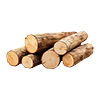
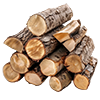
[Custom logic] qb-core - custom notify

diff --git a/[core]/qb-core/html/css/style.css b/[core]/qb-core/html/css/style.css
@@ -4,7 +4,7 @@ html::-webkit-scrollbar {
 
 @media (width: 3840px) and (height: 2160px) {
     .success {
-        background-color: rgba(23, 23, 23, 90%);
+        /*background-color: rgba(23, 23, 23, 40%);*/
         border-radius: 10px;
         box-shadow: 0rem 0rem 0.1rem 0.05rem #000000;
         border-left: 0.5rem solid #20bb44;
@@ -12,7 +12,7 @@ html::-webkit-scrollbar {
     }
 
     .primary {
-        background-color: rgba(23, 23, 23, 90%);
+        /*background-color: rgba(23, 23, 23, 40%);*/
         border-radius: 10px;
         box-shadow: 0rem 0rem 0.1rem 0.05rem #000000;
         border-left: 5px solid #1c75d2;
@@ -20,7 +20,7 @@ html::-webkit-scrollbar {
     }
 
     .error {
-        background-color: rgba(23, 23, 23, 90%);
+        background-color: rgba(23, 23, 23, 40%);
         border-radius: 10px;
         box-shadow: 0rem 0rem 0.1rem 0.05rem #000000;
         border-left: 5px solid #c10114;
@@ -28,7 +28,7 @@ html::-webkit-scrollbar {
     }
 
     .police {
-        background-color: rgba(23, 23, 23, 90%);
+        background-color: rgba(23, 23, 23, 40%);
         border-radius: 10px;
         box-shadow: 0rem 0rem 0.1rem 0.05rem #000000;
         border-left: 5px solid #2197f2;
@@ -36,46 +36,59 @@ html::-webkit-scrollbar {
     }
 
     .ambulance {
-        background-color: rgba(23, 23, 23, 90%);
+        background-color: rgba(23, 23, 23, 40%);
         border-radius: 10px;
         box-shadow: 0rem 0rem 0.1rem 0.05rem #000000;
         border-left: 5px solid #f44236;
         font-size: 1.5vh;
     }
+
+    .job {
+        background-color: rgba(23, 23, 23, 40%);
+        border-radius: 10px;
+        box-shadow: 0rem 0rem 0.1rem 0.05rem #000000;
+        border-left: 5px solid #000000;
+        font-size: 1.5vh;
+    }
 }
 
 .success {
-    background-color: #20bb44;
+    /*background-color: #20bb44;*/
     border-radius: 5px;
     border: 1px solid #6ae587;
 }
 
 .primary {
-    background-color: #1c75d2;
+    /*background-color: #1c75d2;*/
     border-radius: 5px;
     border: 1px solid #6facec;
 }
 
 .warning {
-    background-color: #ff9800;
+    /*background-color: #ff9800;*/
     border-radius: 5px;
     border: 1px solid #ffc107;
 }
 
 .error {
-    background-color: #c10114;
+    /*background-color: #c10114;*/
     border-radius: 5px;
     border: 1px solid #fe4255;
 }
 
 .police {
-    background-color: #2197f2;
+    /*background-color: #2197f2;*/
     border-radius: 5px;
     border: 1px solid #7ac1f7;
 }
 
 .ambulance {
-    background-color: #f44236;
+    /*background-color: #f44236;*/
     border-radius: 5px;
     border: 1px solid #f88e86;
+}
+
+.job {
+    border-radius: 5px;
+    border: 1px solid rgb(0, 0, 0);
 }

diff --git a/[core]/qb-core/html/js/app.js b/[core]/qb-core/html/js/app.js
@@ -13,7 +13,7 @@ const app = Vue.createApp({
             // Otherwise we process any old MessageEvent with a data property
             if (data?.action !== "notify") return;
 
-            const { text, length, type, caption, icon: dataIcon } = data;
+            const { text, length, position, type, caption, icon: dataIcon } = data;
             let { classes, icon } = determineStyleFromVariant(type);
 
             if (dataIcon) {
@@ -37,7 +37,7 @@ const app = Vue.createApp({
                 // we should use multiline notifications
                 group: NOTIFY_CONFIG.NotificationStyling.group ?? false,
                 progress: NOTIFY_CONFIG.NotificationStyling.progress ?? true,
-                position: NOTIFY_CONFIG.NotificationStyling.position ?? "right",
+                position: position ?? "right",
                 timeout: length,
                 caption,
                 classes,

diff --git a/[core]/qb-core/html/css/drawtext.css b/[core]/qb-core/html/css/drawtext.css
@@ -81,7 +81,7 @@
 }
 
 .left {
-    top: 50%;
+    top: 40%;
     left: -100px;
 }
 
@@ -109,6 +109,23 @@
 }
 
 .top-left.hide {
+    transition: 0.5s;
+    left: -100px;
+    opacity: 0;
+}
+
+.left-job {
+    top: 75%;
+    left: -100px;
+}
+
+.left-job.show {
+    transition: 0.5s;
+    left: 10px;
+    opacity: 1;
+}
+
+.left-job.hide {
     transition: 0.5s;
     left: -100px;
     opacity: 0;
